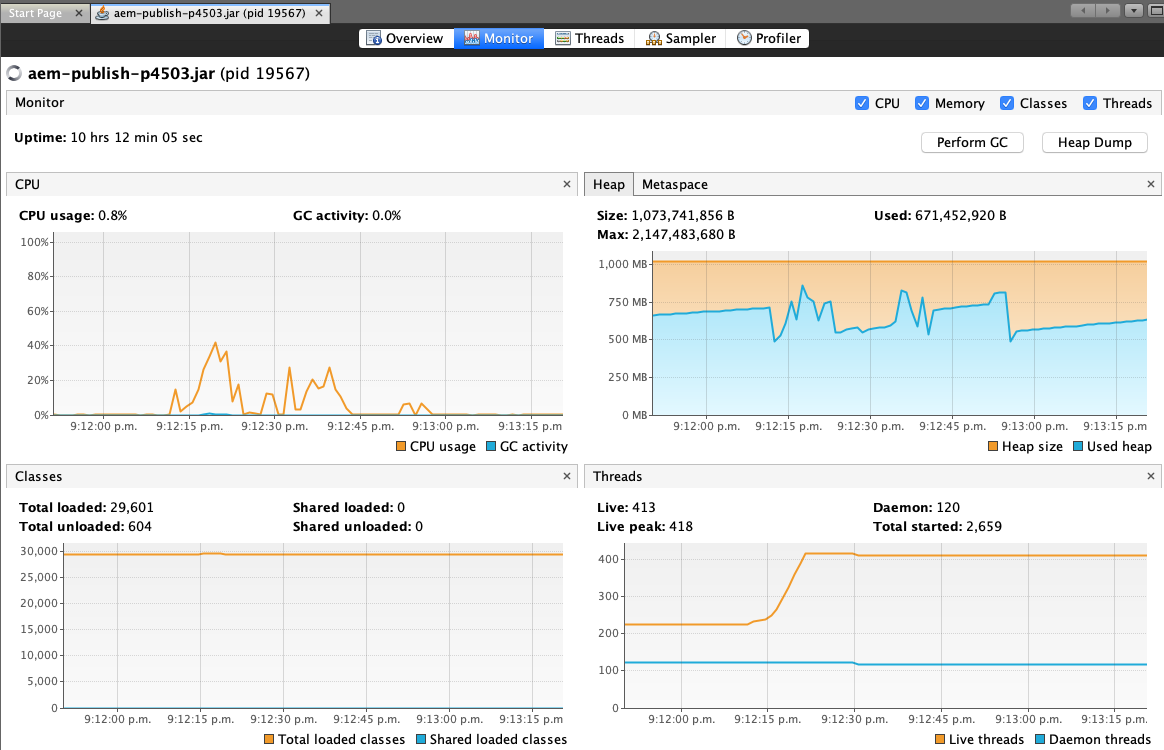
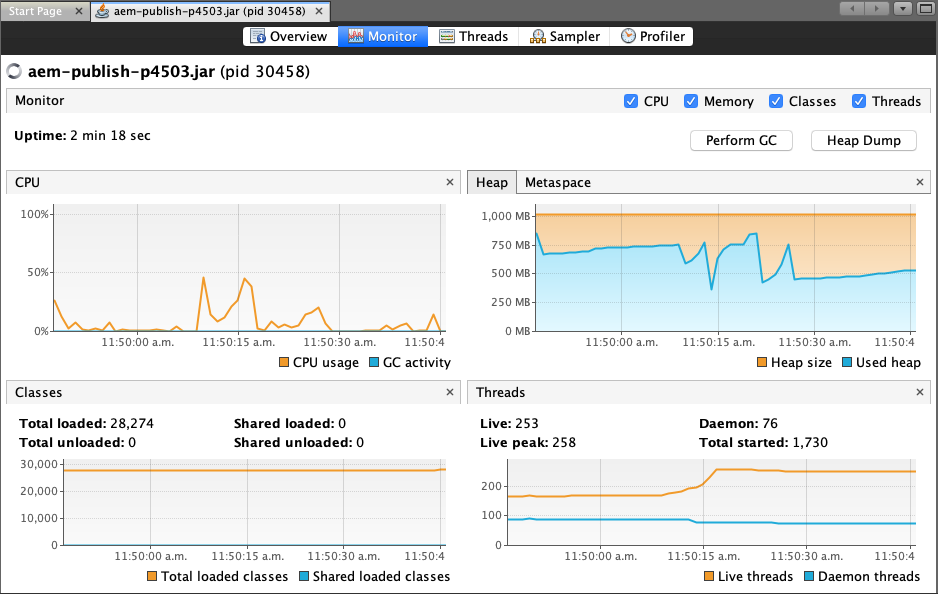
JMeter command for refetching-flush standardized. expensivecomponent's model access corrected so it only calls getData once.

Changed region(s): [[0.0, 0.0, 1.0, 1.0], [0.2473, 0.2727, 0.371, 0.303]]

diff --git a/aem-project/ui.apps/src/main/content/jcr_root/apps/dispatchertester/components/expensivecomponent/expensivecomponent.html b/aem-project/ui.apps/src/main/content/jcr_root/apps/dispatchertester/components/expensivecomponent/expensivecomponent.html
@@ -11,8 +11,8 @@ governing permissions and limitations under the License.
 */-->
 <div class="cmp-helloworld" data-cmp-is="helloworld">
     <h2 class="cmp-helloworld__title">Expensive Component - slept for ${properties.sleeptime}</h2>
-    <div class="cmp-helloworld__item" data-sly-use.model="com.brucelefebvre.core.models.ExpensiveComponentModel" data-sly-test="${model.data}">
+    <div class="cmp-helloworld__item" data-sly-use.model="com.brucelefebvre.core.models.ExpensiveComponentModel" data-sly-test.data="${model.data}">
         <p class="cmp-helloworld__item-label">Model message:</p>
-        <pre class="cmp-helloworld__item-output"data-cmp-hook-helloworld="model">${model.data}</pre>
+        <pre class="cmp-helloworld__item-output" data-cmp-hook-helloworld="model">${data}</pre>
     </div>
 </div>

diff --git a/experiments/refetching-flush/README.md b/experiments/refetching-flush/README.md
@@ -54,21 +54,32 @@ With your `Dispatcher Flush (flush)` agent on Publish set up to perform a standa
 jmeter -n -Jjmeterengine.force.system.exit=true -t Page-with-bad-component-test-plan.jmx -Jrampup=10 -Jthreads=100 -Jduration=20
 ```
 
-Note the results. In my case, the error rate was between 25 - 33%, and the requests per second was 6.0 - 6.4:
+Note the results. 
 
 ```
 Run #1:
-summary =    100 in 00:00:33 =    3.1/s Avg: 25599 Min: 21113 Max: 31268 Err:     0 (0.00%)
+summary =  13056 in 00:00:23 =  578.2/s Avg:   123 Min:     0 Max: 20807 Err:     0 (0.00%)
 
 Run #2:
-summary =    100 in 00:00:32 =    3.1/s Avg: 25348 Min: 22402 Max: 30974 Err:     0 (0.00%)
+summary =  11620 in 00:00:21 =  560.3/s Avg:   129 Min:     1 Max: 16293 Err:     0 (0.00%)
 ```
+
+For a more detailed HTML report of this data, run the following:
+
+    jmeter -g jmeterResults.jtl -o report/
+    open report/index.html
+
+The Statistics tile in the dashboard has some interesting metrics, including a huge range range of response times - due to the fact that the initial 100 threads all require the publish rendering engine to generate them a page. Once the page is cached (after ~11.6 seconds in the image), the other requests are served extremely quickly, due to JMeter and the dispatcher both being collocated on the same machine:
+
+<img src="jmeter-stats.png" >
 
 Also note the effect this has on the publish instance. The following screenshot was taken from VisualVM after the test had finished:
 
 <img src="../img/visualvm-standard-flush.png" width="600">
 
 In particular, note how the thread count ramped way up as the test began, and then remained elevated.
+
+CPU usage does not spike too high since this component is not actually doing anything. In a more "real" scenario where the component is doing something expensive, a spike in CPU would be seen as well.
 
 Now, let's try the same test again with a different Flushing strategy.
 
